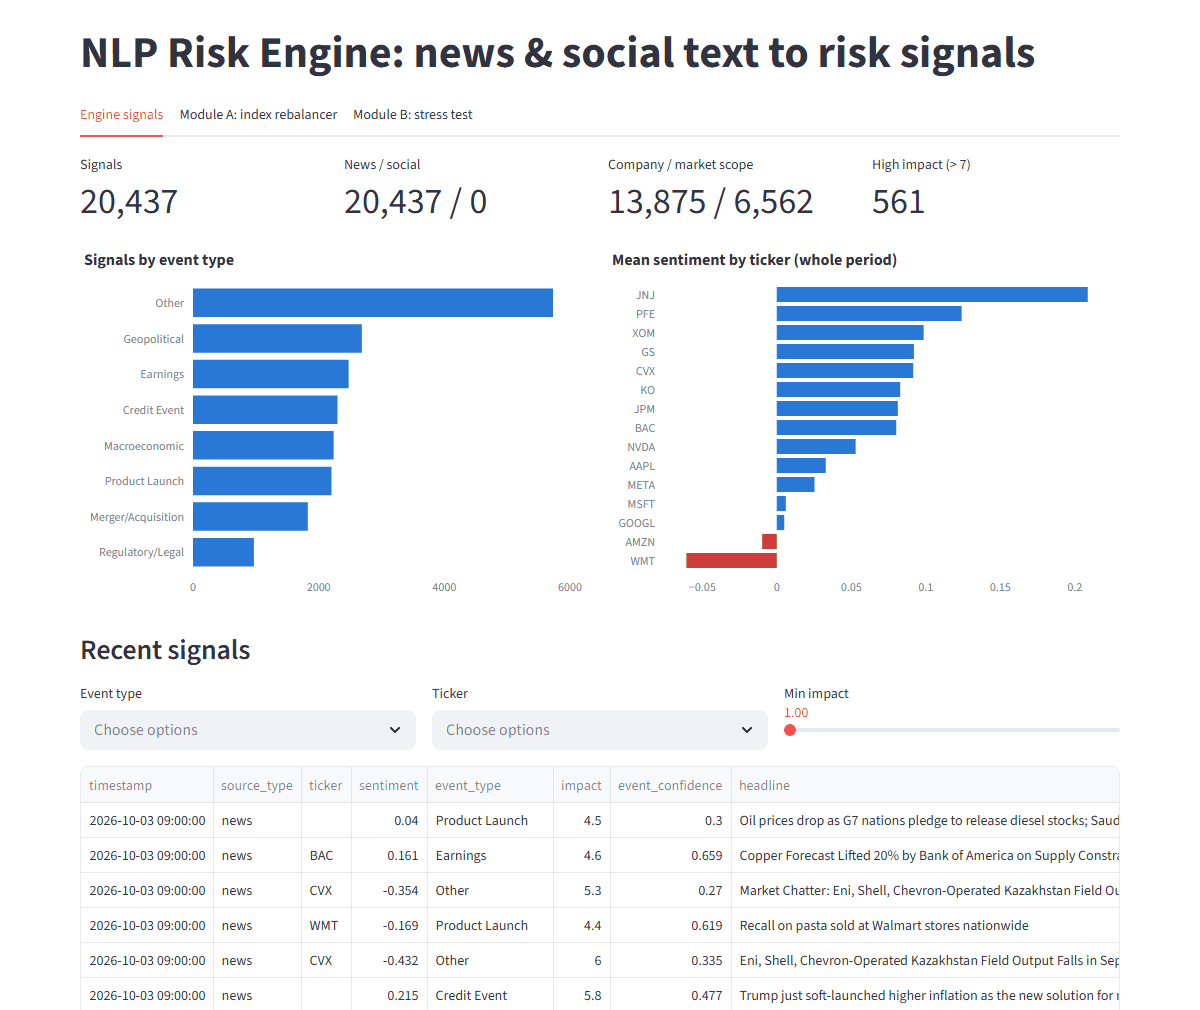
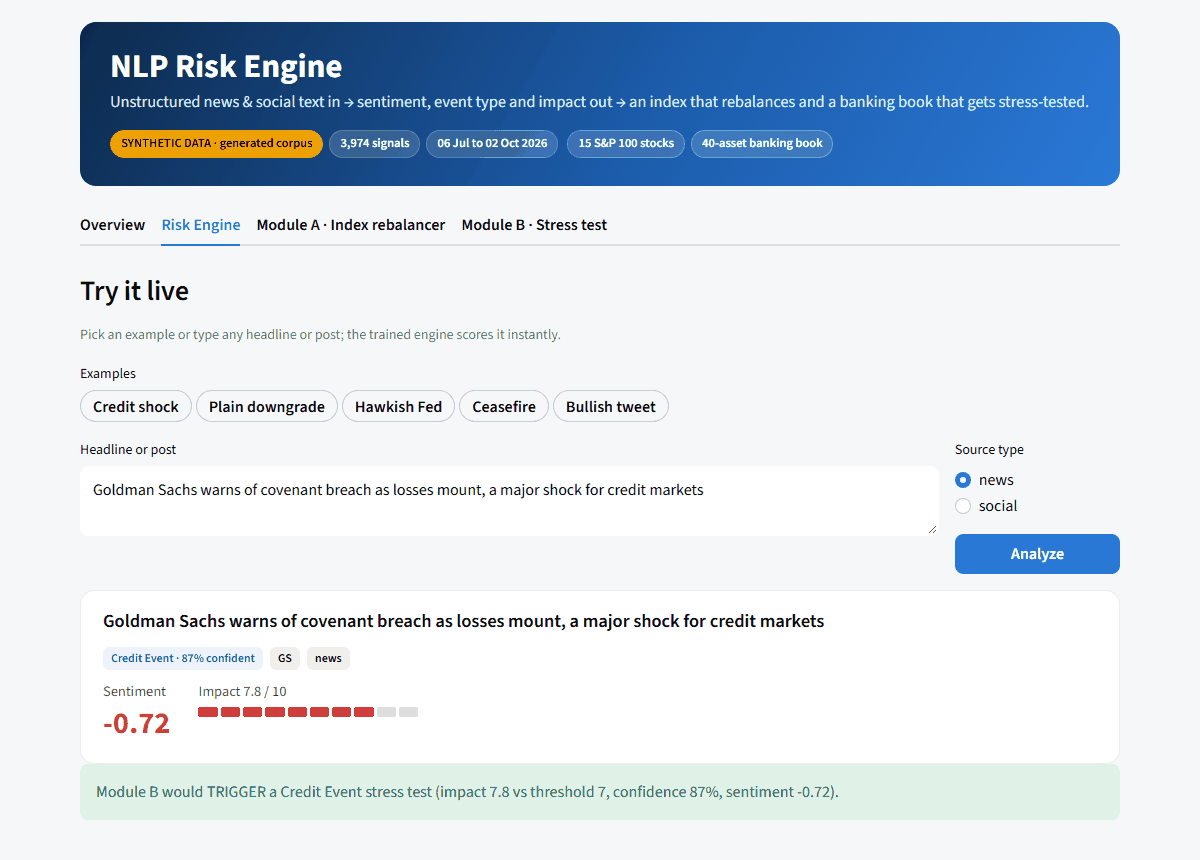
docs: refresh README screenshots and demo script for the new dashboard

diff --git a/docs/demo_script.md b/docs/demo_script.md
@@ -4,17 +4,17 @@ The problem statement caps the live demo at 5 minutes, so this script is timed t
 
 **Before you start (not on the clock)**
 - Run `pip install -r requirements.txt`, `python -m src.engine.pipeline` and `python -m src.engine.real` once.
-- Open `streamlit run app.py` in a browser at 100% zoom, on the **Engine signals** tab, sidebar at defaults (data source = Synthetic).
+- Open `streamlit run app.py` in a browser at 100% zoom, on the **Overview** tab, sidebar at defaults (data source = Synthetic).
 - Click through all three tabs in **both** data sources once, so every view is cached and instant.
 - Have a terminal open in the repo root with the font enlarged. Close notifications. Have `docs/presentation.pdf` open in another window in case you need a slide.
 
 | Time | Screen | What to do | What to say |
 |---|---|---|---|
-| 0:00-0:25 | Slide 1 or README top | - | "Market-moving information arrives as text. I built one NLP Risk Engine that turns each news article or post into a sentiment score, an event type and an impact score, plus two modules that act on them: a sentiment-tilted index and an event-triggered stress test of a banking book. I built it on synthetic data, then tested it on real data, and the real data changed my conclusions." |
+| 0:00-0:25 | Dashboard **Overview** tab | Point at the hero banner and the four story cards (Read, Understand, Act A, Act B). | "Market-moving information arrives as text. I built one NLP Risk Engine that turns each news article or post into a sentiment score, an event type and an impact score, plus two modules that act on them: a sentiment-tilted index and an event-triggered stress test of a banking book. I built it on synthetic data, then tested it on real data, and the real data changed my conclusions." |
 | 0:25-0:45 | Terminal | Run `python -m pytest -q tests` | "32 tests: no look-ahead, weight limits, hedge signs, trigger rules and the dashboard itself." |
-| 0:45-1:30 | **Engine signals** (Synthetic) | Click **Analyze** on the pre-filled Goldman headline (Credit Event, impact 7.8, "would TRIGGER"). Then paste `Moody's downgrades Goldman Sachs to junk as trading losses mount` and click Analyze (impact 5.9, "would not trigger"). Scroll to **How accurate is the sentiment on REAL text?** | "Two sources go into one schema; every text becomes a structured signal. This table is the honest part: trained only on synthetic text, sentiment was no better than guessing 'neutral' on real tweets and news. Retrained on real labelled data, it reaches 0.83 accuracy on held-out tweets and 0.89 on news." |
+| 0:45-1:30 | **Risk Engine** (Synthetic) | Click **Analyze** on the pre-filled Goldman headline (signal card: Credit Event, impact 7.8, green "would TRIGGER"). Click the **Plain downgrade** example, then **Analyze** (impact 5.9, "would not trigger"). Scroll to **How accurate is the sentiment on REAL text?** | "Two sources go into one schema; every text becomes a structured signal. This table is the honest part: trained only on synthetic text, sentiment was no better than guessing 'neutral' on real tweets and news. Retrained on real labelled data, it reaches 0.83 accuracy on held-out tweets and 0.89 on news." |
 | 1:30-2:20 | **Module A** (Synthetic) | Point at the cards (+3.43% vs -6.78%) and the stacked weights. Drag **Sentiment tilt** to 0: NAV collapses onto the benchmark. Set it back to 1.5. | "Positive news raises a weight and negative news lowers it, within 2-15%, with at most 20% turnover a day and no look-ahead. On synthetic data it wins, but those prices were built from the same events, so it's circular." |
-| 2:20-3:00 | Sidebar: **Data source -> Real**, still on Module A | Switch the source. Read the cards (+7.04% vs +7.86%). Scroll to **Latest weight changes and why** and read a real headline driver. | "Same code, now on 22,000 real Google News headlines and real Yahoo Finance prices. Here the tilt doesn't beat equal weight; it's within the range of random tilts. Public headlines get priced in fast. I'm reporting that, not tuning it away." |
+| 2:20-3:00 | Sidebar: **Data source -> Real**, still on Module A (the banner badge turns green: REAL DATA) | Switch the source. Read the cards (+7.04% vs +7.86%). Scroll to **Latest weight changes and why** and read a real headline driver. | "Same code, now on 22,000 real Google News headlines and real Yahoo Finance prices. Here the tilt doesn't beat equal weight; it's within the range of random tilts. Public headlines get priced in fast. I'm reporting that, not tuning it away." |
 | 3:00-4:05 | **Module B** (Real) | Point at "51 stress tests" and the ignored-signals caption (458 unsure). The selector opens on "US economy grows sluggish 1.5%... inflation tops Fed target": show the waterfall and P&L by asset type. Filter event types to *Geopolitical* and pick a US-Iran sanctions or US-Canada tariff headline. | "On real news, a test fires only if impact is above 7, the event label is confident and the news is adverse. That removed 458 false alarms, like a lifestyle story about a 'default setting'. What's left are real events: the Iran war, sanctions, the trade war, Fed hikes. This one costs 57.7 million, or 2.75%, of a 2.1 billion book, and the hedges claw back 34 million." |
 | 4:05-4:40 | Module B, **Custom shock** | It opens on the brief's "equities -10%, rates +200bp" (-3.36%). Drag **Credit spread shock** to +200bp and show the loss grow. | "The brief's own scenario: minus 70 million, with swaps and puts offsetting 78 million. Value them on market value instead of notional and that hedge disappears. The model is first-order; calibrating to history and adding correlations is next." |
 | 4:40 | - | Stop. | "Code, data, deck and this script are in the repo. Thank you." |

diff --git a/README.md b/README.md
@@ -16,6 +16,10 @@ The engine ingests **financial news** and **X/Twitter-style posts** into one sch
 
 **Built on synthetic data, then tested on real data.** The system was developed on a reproducible synthetic corpus, then run end to end on **real public data**: 22,442 dated Google News headlines from 2,984 publishers, Yahoo Finance prices for the same 15 stocks, and 4,652 human-labelled real financial texts (Financial PhraseBank and finance tweets). Real text exposed a generalisation gap: the synthetic-trained sentiment model was no better than always guessing "neutral". So the real-data mode retrains sentiment on real labelled text, raising held-out accuracy from 0.59 to 0.83 on tweets and from 0.61 to 0.89 on news. A Streamlit dashboard switches between both modes live.
 
+![Dashboard overview, real-data mode](docs/img/dashboard_overview.png)
+
+![Live scoring in the Risk Engine tab](docs/img/dashboard_engine.png)
+
 ## 2. Architecture & Tech Stack
 
 ![Architecture](docs/architecture.png)
@@ -32,7 +36,7 @@ The engine ingests **financial news** and **X/Twitter-style posts** into one sch
 | Real-data mode | `src/engine/real.py`, `scripts/fetch_real_data.py` | Fetches real headlines, prices and labelled text; evaluates and retrains sentiment; scores real headlines |
 | Module A | `src/modules/rebalancer.py` | `SentimentRebalancer`, `RebalanceConfig`, `run_backtest` |
 | Module B | `src/modules/stress.py` | `StressTester`, `SCENARIOS`, `run_stress` (any custom shock), `run_event_stress` |
-| Dashboard | `app.py` | Streamlit + Plotly, 3 tabs, sidebar switch between synthetic and real data |
+| Dashboard | `app.py`, `.streamlit/config.toml` | Streamlit + Plotly: Overview (story cards, live risk feed), Risk Engine (one-click live scoring, real-text accuracy), Module A, Module B; sidebar switch between synthetic and real data |
 | Docs | `scripts/make_docs.py` | regenerates `docs/results.json`, figures, `architecture.png`, `presentation.pdf` from a real run |
 
 **Tech stack:** Python 3.13, pandas, NumPy, scikit-learn, vaderSentiment, FastAPI + Uvicorn, Streamlit, Plotly, matplotlib, yfinance (data fetch only), pytest. Everything runs locally on CPU; no API keys are needed.
